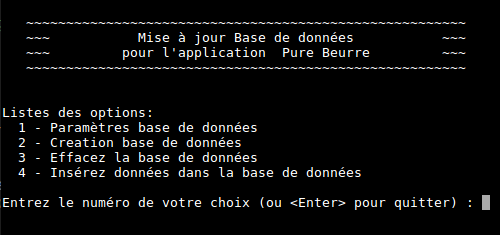
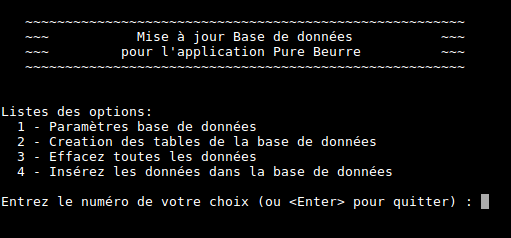
correcting README.md file and docstrings

diff --git a/update_db.py b/update_db.py
@@ -44,6 +44,7 @@ def conf_database(msg=""):
     """
     Adding the parameters in the 'database_conf' file that
     allow you to connect to the database
+        :param msg: Show the menu name or detected errors
         :return: dict of the parameters of the database
     """
     header(msg)
@@ -124,9 +125,9 @@ def main():
     header()
     print("Listes des options:\n"
           "  1 - Paramètres base de données\n"
-          "  2 - Creation base de données\n"
-          "  3 - Effacez la base de données\n"
-          "  4 - Insérez données dans la base de données\n")
+          "  2 - Creation des tables de la base de données\n"
+          "  3 - Effacez toutes les données\n"
+          "  4 - Insérez les données dans la base de données\n")
     entry = input("Entrez le numéro de votre choix (ou <Enter> pour quitter) : ")
     return entry
 
@@ -154,10 +155,10 @@ if __name__ == '__main__':
                     header("## Creation de la base de données ##\n")
                     db.sql_script('script_create_DB.sql')
                 elif choice == "3":
-                    header("## Suppression des données dans la base ##\n")
+                    header("## Suppression des données dans la base de données ##\n")
                     db.sql_script('script_erase_DB.sql')
                 elif choice == "4":
-                    header("# Insertion des données dans la base en cours... #\n")
+                    header("# Insertion des données dans la base de données en cours... #\n")
                     data_create()
                 else:
                     print("\n*** Erreur de touche ***\n")
@@ -169,7 +170,7 @@ if __name__ == '__main__':
             conf_database()
             continue
         except KeyboardInterrupt:
-            log.warning("Fermeture du programme avec Ctrl+C")
+            log.warning("Fermeture du programme avec <Ctrl+C>")
             break
         else:
             db.close()

diff --git a/purebeurre_client.py b/purebeurre_client.py
@@ -113,7 +113,7 @@ def substitute_products(product):
         print("Listes des options:\n"
               "  1 - Produit de substitution suivant...\n"
               "  2 - Enregistrez cet aliment de substitution ?\n"
-              "  3 - Pour retournez au menu principale\n")
+              "  3 - Pour retournez au menu principal\n")
         entry = input("Entrez le numéro de votre choix : ")
         if entry == "1":
             if nb < (len(subProducts) - 1):
@@ -262,6 +262,6 @@ if __name__ == '__main__':
     except KeyboardInterrupt:
         log.warning("Fermeture du programme avec Ctrl+C")
     except FileNotFoundError:
-        log.error("Manque fichier 'database_conf' voyez lancer le script 'update_db.py'")
+        log.error("Manque fichier 'database_conf', lancez le script 'update_db.py' pour créer ce fichier.")
     else:
         db.close()

diff --git a/package/database.py b/package/database.py
@@ -93,8 +93,8 @@ class Database:
     def execute(self, request, param=None):
         """
         ## Execute the requests SQL ##
-            :param request:
-            :param param:
+            :param request: SQL request
+            :param param: parameter for the request
             :return: commit() method
         """
         try:

diff --git a/README.md b/README.md
@@ -67,7 +67,7 @@ This one will ask you two different questions in French which are:
 
     1 - Quel aliment souhaitez-vous remplacer ? 
     2 - Retrouvez mes aliments substitués.
-    3 - Supprimez un aliments substitués.
+    3 - Supprimez mes aliments substitués.
 
 - Select one with the numeric keypad and confirm with the **enter** key.
 - Then it will offer you several choices of categories, select in one thanks to the corresponding numeric key and validate.
